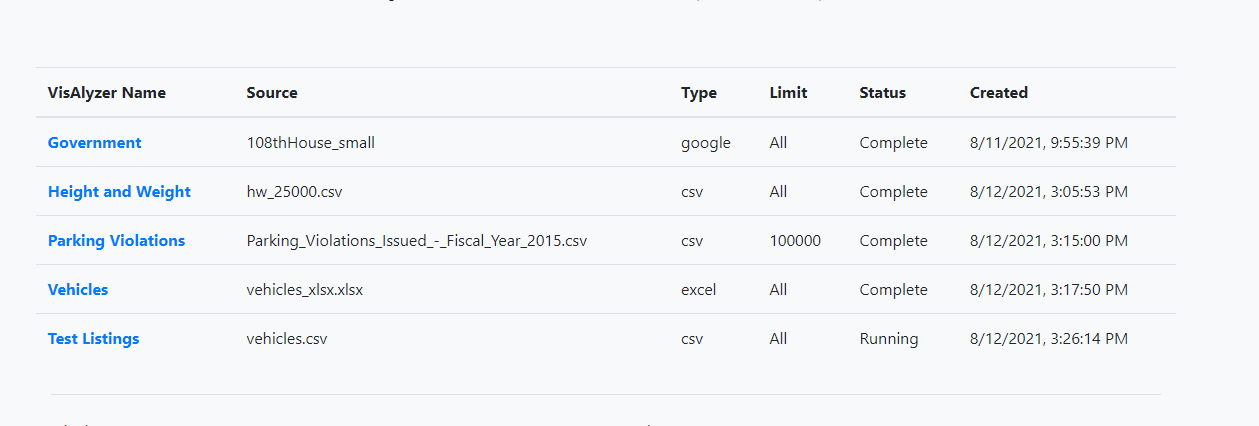
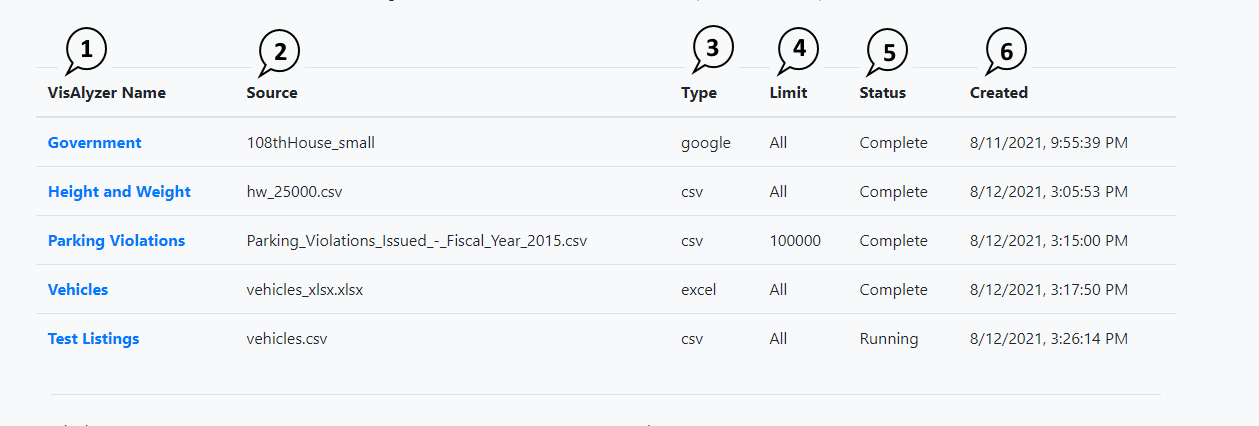
more doc and fixes

diff --git a/docs.visalyzer.com/components.html b/docs.visalyzer.com/components.html
@@ -9,6 +9,7 @@
     <meta name="description" content="Easliy visualize and analyze massive matrix datas from multiple data sources." />
     <meta http-equiv="X-UA-Compatible" content="IE=edge">
     <meta name="viewport" content="width=device-width, initial-scale=1.0">
+    <meta name="viewport" content="width=device-width, initial-scale=1.0">
     <meta name="description" content="">
     <meta name="author" content="">  
     <link rel="icon" href="IncTrakIcon.png">
@@ -73,62 +74,84 @@
                             <section id="dashboard-components" class="doc-section">
                                 <h2 class="section-title">Dashboard Components</h2>
                                 <div id="saved-projects" class="section-block">
-                                    <h3 class="block-title">Saved Projects</h3>
-                                    <p>Thise section shows all of your currently saved VisAlyzer projects.</p>
+                                    <h3 class="block-title">Dashboard Overview</h3>
+                                    <p>This is the main launching pad to create a new or load a saved VisAlyzer project.</p>
                                     <div class="row">
                                         <div class="col-md-6 col-sm-6 col-xs-12">
-                                            <h6>Dashboard Overview</h6>
+                                            <h6>Dashboard</h6>
                                             <div class="screenshot-holder">
                                                 <a href="assets/images/dashboard/VisAlyzer_dashboard_full.png" data-title="Dashboard Overview" data-toggle="lightbox"><img class="img-responsive" src="assets/images/dashboard/VisAlyzer_dashboard_full.png" alt="screenshot" /></a>
                                                 <a class="mask" href="assets/images/dashboard/VisAlyzer_dashboard_full.png" data-title="Dashboard Overview" data-toggle="lightbox"><i class="icon fa fa-search-plus"></i></a>
                                             </div>
-                                            <p>The dashboard is the main area load a saved or start a new VisAlyze project.</p>
+                                            <p>
+                                                <ol>
+                                                    <li>Saved Project - load a previously saved VisAlyze project</li>
+                                                    <li>Project Options - set the options for a new project</li>
+                                                    <li>Load Source - Define the location of the the source matrix data</li>
+                                                </ol>
+                                            </p>
                                         </div>
                                     </div><!--//row-->
                                 </div><!--//section-block-->
 
                                 <div id="saved-projects" class="section-block">
                                     <h3 class="block-title">Saved Projects</h3>
-                                    <p>The stock class section allows you create, edit and delete stock classes.</p>
+                                    <p>The shows the list of saved project that you have created.</p>
                                     <div class="row">
                                         <div class="col-md-6 col-sm-6 col-xs-12">
-                                            <h6>Stock Class List</h6>
+                                            <h6>Saved Projects List</h6>
                                             <div class="screenshot-holder">
-                                                <a href="assets/images/company/a_company_stockclass_list.png" data-title="Stock Class List" data-toggle="lightbox"><img class="img-responsive" src="assets/images/company/a_company_stockclass_list.png" alt="screenshot" /></a>
-                                                <a class="mask" href="assets/images/company/a_company_stockclass_list.png" data-title="Stock Class List" data-toggle="lightbox"><i class="icon fa fa-search-plus"></i></a>
+                                                <a href="assets/images/dashboard/VisAlyzer_saved_projects.png" data-title="Saved Projects" data-toggle="lightbox"><img class="img-responsive" src="assets/images/dashboard/VisAlyzer_saved_projects.png" alt="screenshot" /></a>
+                                                <a class="mask" href="assets/images/dashboard/VisAlyzer_saved_projects.png" data-title="Saved Projects" data-toggle="lightbox"><i class="icon fa fa-search-plus"></i></a>
                                             </div>
-                                            <p>The stock class list shows you all stock classes. You can create new stock classes by selecting the "Create New Stock Class>" link and see detail or edit existing plans by selecting the related link.</p>
-                                        </div>
-                                        <div class="col-md-6 col-sm-6 col-xs-12">
-                                            <h6>Stock Class Details</h6>
-                                            <div class="screenshot-holder">
-                                                <a href="assets/images/company/a_company_stockclass_edit.png" data-title="Stock Class Details" data-toggle="lightbox"><img class="img-responsive" src="assets/images/company/a_company_stockclass_edit.png" alt="screenshot" /></a>
-                                                <a class="mask" href="assets/images/company/a_company_stockclass_edit.png" data-title="Stock Class Details" data-toggle="lightbox"><i class="icon fa fa-search-plus"></i></a>
-                                            </div>
-                                            <p>Set the Plan name and total number for the stock class, Click "Submit" to save changes and "Remove" to delete the stock class.</p>
+                                            <p>
+                                                <ol>
+                                                    <li>VisAlyzer Name - the name of the saved project</li>
+                                                    <li>Source - the file name or Google sheet name of the source matrix</li>
+                                                    <li>Type - the type of the source amtrix data (csv, Excel, Google, etc.)</li>
+                                                    <li>Limit - the number of rows considered from the source matrix (All or a number)</li>
+                                                    <li>Status - the current status of the project (Complete and Running if still being processed)</li>
+                                                    <li>Created - the date and time that the project was created</li>
+                                                </ol>
+                                             </p>
                                         </div>
                                     </div><!--//row-->
                                 </div><!--//section-block-->
 
-                                <div id="stockholder" class="section-block">
-                                    <h3 class="block-title">Stock Holders</h3>
-                                    <p>The stock holder section allows you create, edit and delete stock holders.</p>
+                                <div id="project_options" class="section-block">
+                                    <h3 class="block-title">Project Options</h3>
+                                    <p>The Project Options section allows you customize how the matrix data is loaded into a new project.</p>
                                     <div class="row">
                                         <div class="col-md-6 col-sm-6 col-xs-12">
-                                            <h6>Stock Holder List</h6>
+                                            <h6>New project options settings</h6>
                                             <div class="screenshot-holder">
-                                                <a href="assets/images/company/a_company_stockholder_list.png" data-title="Stock Holder List" data-toggle="lightbox"><img class="img-responsive" src="assets/images/company/a_company_stockholder_list.png" alt="screenshot" /></a>
-                                                <a class="mask" href="assets/images/company/a_company_stockholder_list.png" data-title="Stock Holder List" data-toggle="lightbox"><i class="icon fa fa-search-plus"></i></a>
+                                                <a href="assets/images/dashboard/VisAlyzer_project_options.png" data-title="Stock Holder List" data-toggle="lightbox"><img class="img-responsive" src="assets/images/dashboard/VisAlyzer_project_options.png" alt="screenshot" /></a>
+                                                <a class="mask" href="assets/images/dashboard/VisAlyzer_project_options.png" data-title="Stock Holder List" data-toggle="lightbox"><i class="icon fa fa-search-plus"></i></a>
                                             </div>
-                                            <p>The stock holder list shows you a searchable list of stock holders. You can create new stock holders by selecting the "Create New Stock Holder>" link and see detail or edit existing holders by selecting the related link.</p>
-                                        </div>
-                                        <div class="col-md-6 col-sm-6 col-xs-12">
-                                            <h6>Stock Holder Details</h6>
-                                            <div class="screenshot-holder">
-                                                <a href="assets/images/company/a_company_stockholder_edit.png" data-title="Stock Holder Details" data-toggle="lightbox"><img class="img-responsive" src="assets/images/company/a_company_stockholder_edit.png" alt="screenshot" /></a>
-                                                <a class="mask" href="assets/images/company/a_company_stockholder_edit.png" data-title="Stock Holder Details" data-toggle="lightbox"><i class="icon fa fa-search-plus"></i></a>
-                                            </div>
-                                            <p>Set the Participant stock holder name, stock class, date of sale, price per share and the number stocks. Click "Submit" to save changes and "Remove" to delete the stock holder.</p>
+                                            <p>
+                                                <ol>
+                                                    <li>VisAlyzer Name - the name to be saved for the new project</li>
+                                                    <li>
+                                                        Ignore Columns - is list of columns (in CSV format) to not include from the source matrix
+                                                        <ul>
+                                                            <li>Column Indexes - the 1 based index list of columns to ignore. ex: 2, 5, 6 would ignore columns A, E and F in a tradiional spreadsheet</li>
+                                                            <li>Column Names - the "named" columns to ignore. These are derived from the names in your spreadsheet or if auto-generated COL_1, COL_2...COL_N</li>
+                                                        </ul>
+                                                    </li>
+                                                    <li>
+                                                        Data Rules
+                                                        <ul>
+                                                            <li>Ignore blank rows - if a row of matrix data has no values, ignore the entire row</li>
+                                                            <li>Ignore Text Case - treat all textual data as lowercase for grouping and analysis. (details of actual case will be preserved)</li>
+                                                            <li>Trim Leading Whitespace - for textual data remove all leading white space characters</li>
+                                                            <li>Trim Trailing Whitespace - for textual data remove all trailing white space characters</li>
+                                                        </ul>
+                                                    </li>
+                                                    <li>Header on Row - the one based index of the first row to consider as a header in the matrix data (must be 1 or greater)</li>
+                                                    <li>Header Rows - the number of rows from the "Header on Row" to consider when forming column names. If zero a column name will be generated (COL_1, COL_2...COL_N</li>
+                                                    <li>Stop After n Rows - the number of data rows to process in the matrix. A zero indicates all data is to be consumed.</li>
+                                                </ol>
+                                            </p>
                                         </div>
                                     </div><!--//row-->
                                 </div><!--//section-block-->
@@ -478,7 +501,7 @@
                                     <ul class="nav doc-sub-menu">
                                         <li><a class="scrollto" href="#dashboard">Dashboard</a></li>
                                         <li><a class="scrollto" href="#saved-projects">Saved Projects</a></li>
-                                        <li><a class="scrollto" href="#stockholder">Stock Holders</a></li>
+                                        <li><a class="scrollto" href="#project_options">Project Options</a></li>
                                         <li><a class="scrollto" href="#plans">Equity Stock Plans</a></li>
                                         <li><a class="scrollto" href="#vestingschedule">Vesting Schedules</a></li>
                                         <li><a class="scrollto" href="#terminationdates">Termination Dates</a></li>

diff --git a/static.manga.inctrak/index.html b/static.manga.inctrak/index.html
@@ -59,25 +59,25 @@
         <form class="needs-validation was-validated">
             <div class="form-row">
                 <div class="col-6 pl-2">
-                    <label for="sheet_id">VisAlyzer Name</label>
-                    <input type="text" class="form-control" v-model="manga_name" placeholder="" required="">
+                    <label for="manga_name">VisAlyzer Name</label>
+                    <input id="manga_name" type="text" class="form-control" v-model="manga_name" placeholder="" required="">
                     <div class="invalid-feedback">
                         Please enter the name you want this VisAlyzer refered to as.
                     </div>
                 </div>
                 <div class="col-3 pl-2">
-                    <label for="range">Header on Row</label>
-                    <input type="number" class="form-control input-sm" v-model="header_row" placeholder="" :min="0">
+                    <label for="header_row">Header on Row</label>
+                    <input id="header_row" type="number" class="form-control input-sm" v-model="header_row" placeholder="" :min="0">
                 </div>
             </div>
             <div class="form-row ">
                 <div class="col-6 pl-2">
-                    <label for="sheet_id">Ignore Columns<span class="text-muted"> (Optional)</span></label>
-                    <input type="text" class="form-control" v-model="ignore_cols" placeholder="comma separated list of columns to ignore (name or 1 based column index)">
+                    <label for="ignore_cols">Ignore Columns<span class="text-muted"> (Optional)</span></label>
+                    <input type="text" id="ignore_cols" class="form-control" v-model="ignore_cols" placeholder="comma separated list of columns to ignore (name or 1 based column index)">
                 </div>
                 <div class="col-3  pl-2">
-                    <label for="range">Header Rows</label>
-                    <input type="number" class="form-control input-sm" v-model="header_rows" placeholder="" :min="0">
+                    <label for="header_rows">Header Rows</label>
+                    <input id="header_rows" type="number" class="form-control input-sm" v-model="header_rows" placeholder="" :min="0">
                 </div>
             </div>
             <div class="form-row ">

diff --git a/static.manga.inctrak/js/vis_loader.js b/static.manga.inctrak/js/vis_loader.js
@@ -173,6 +173,9 @@ var mangaAuth = new Vue({
             if (!this.manga_name) {
                 error += "Please enter VisAlyzer Name\n";
             }
+            if (this.header_row <=0 ) {
+                error += "Header Row must be greater than zero\n";
+            }
             if (this.header_row > this.header_rows) {
                 error += "Header on Row cannot be greater then Header Row\n";
             }

diff --git a/Manga.IncTrak/Manga/Base/DataManga.cs b/Manga.IncTrak/Manga/Base/DataManga.cs
@@ -124,7 +124,7 @@ namespace Manga.IncTrak.Manga
                 if (index > calculatedNumberOfCols)
                     break;
 
-                if (ignoreIndexes.Count == 0 || ignoreIndexes.Contains(index) == false)
+                if (ignoreIndexes == null || ignoreIndexes.Count == 0 || ignoreIndexes.Contains(index) == false)
                 {
                     var dataCook = data as string;
                     if ( dataCook != null && (trimLeadingWhitespace || trimTrailingWhitespace))

diff --git a/Manga.IncTrak/Processing/MangaFactory.cs b/Manga.IncTrak/Processing/MangaFactory.cs
@@ -192,6 +192,7 @@ namespace Manga.IncTrak.Processing
                 {
                     ProcessHeaderRow(false, manga, row);
                 }
+
                 bool addRow = !_mangaInfo.IgnoreBlankRows;
                 if (addRow == false)
                 {
